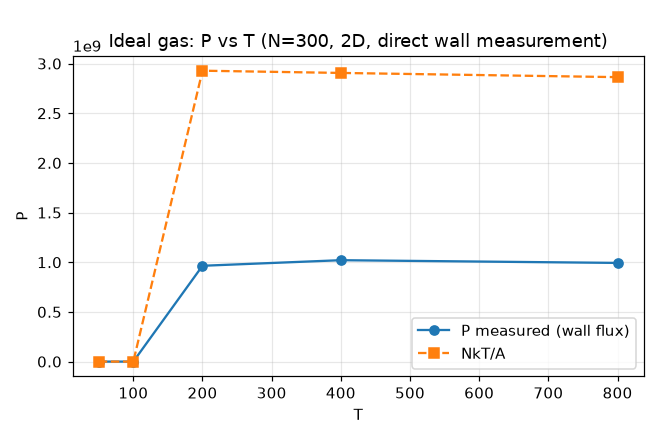
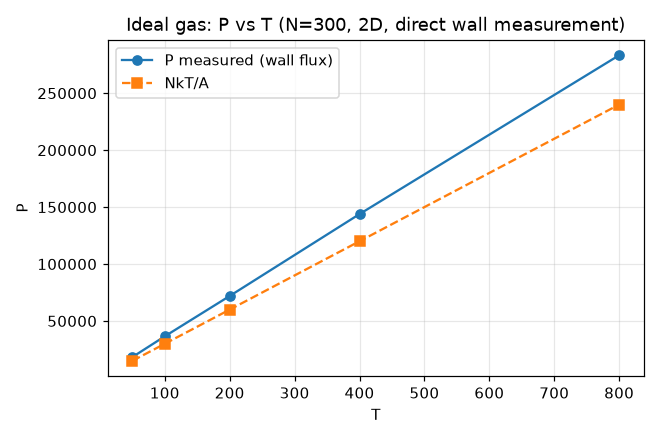
sync: 2026-11-25 15:45 auto-sync

diff --git a/learning-library/rsa_folder.html b/learning-library/rsa_folder.html
@@ -1,0 +1,99 @@
+<!DOCTYPE html>
+<html lang="en">
+<head>
+<meta charset="UTF-8">
+<meta name="viewport" content="width=device-width, initial-scale=1.0">
+<title>⬡ RSA Folder Lock — Hybrid Encryption Guide</title>
+<style>
+:root{--bg:#0d1117;--panel:#161b22;--border:#30363d;--gold:#f0b429;--blue:#58a6ff;--green:#3fb950;--txt:#c9d1d9;--dim:#8b949e}
+*{margin:0;padding:0;box-sizing:border-box}
+body{background:var(--bg);color:var(--txt);font-family:'Segoe UI',system-ui,sans-serif;line-height:1.65;padding:32px}
+.wrap{max-width:900px;margin:0 auto}
+h1{color:var(--gold);font-size:26px;border-bottom:2px solid var(--gold);padding-bottom:12px}
+h2{color:var(--blue);font-size:18px;margin:28px 0 10px}
+h3{color:var(--gold);font-size:15px;margin:18px 0 6px}
+p,li{font-size:14px;margin:6px 0}
+code,pre{font-family:Consolas,monospace;background:var(--panel);border:1px solid var(--border);border-radius:6px}
+code{padding:1px 6px;font-size:13px;color:var(--gold)}
+pre{padding:14px;overflow-x:auto;font-size:13px;line-height:1.5;margin:10px 0}
+.panel{background:var(--panel);border:1px solid var(--border);border-radius:10px;padding:16px;margin:14px 0}
+.warn{border-left:3px solid var(--gold)}
+.danger{border-left:3px solid #f85149}
+.ok{border-left:3px solid var(--green)}
+.dim{color:var(--dim);font-size:12px}
+a{color:var(--blue)}
+table{width:100%;border-collapse:collapse;font-size:13px;margin:10px 0}
+td,th{padding:8px;border-bottom:1px solid var(--border);text-align:left}
+th{color:var(--dim);font-size:11px;text-transform:uppercase}
+</style>
+</head>
+<body>
+<div class="wrap">
+<h1>⬡ RSA Folder Lock <span class="dim">— hybrid RSA-2048 + AES-256-GCM</span></h1>
+<p class="dim">Tool: <code>folder_lock.py</code> · Source: <code>/home/neilh/folder_lock.py</code> (149 lines) · Built for prime-discovery / Nello Gem</p>
+
+<h2>🔑 The Idea — why hybrid?</h2>
+<div class="panel">
+<p><strong>RSA can't encrypt large data</strong> — it's slow and limited to ~245 bytes at 2048-bit. AES is fast but has the key-distribution problem. Hybrid solves both:</p>
+<table>
+<tr><th>Layer</th><th>Algorithm</th><th>Job</th></tr>
+<tr><td>Bulk data</td><td><b>AES-256-GCM</b></td><td>Encrypts every file with a fresh random key + nonce (authenticated — tamper-proof)</td></tr>
+<tr><td>Key wrap</td><td><b>RSA-2048-OAEP</b></td><td>Wraps the small AES key — RSA's only job</td></tr>
+<tr><td>Manifest</td><td><b>JSON (.flock)</b></td><td>Records filenames/sizes/nonces so <code>unlock</code> rebuilds the tree</td></tr>
+</table>
+<p>File format magic: <code>FLOCK1\n</code> header on every <code>.enc</code> file.</p>
+</div>
+
+<h2>⚡ Commands</h2>
+<pre>python folder_lock.py keygen                  # creates pub + priv PEM keys
+python folder_lock.py lock &lt;folder&gt;           # encrypts every file in place → .enc
+python folder_lock.py unlock &lt;folder&gt;         # restores files from .enc
+python folder_lock.py ... --keydir DIR         # keys live somewhere else</pre>
+
+<h2>🗝 Key Rules</h2>
+<div class="panel danger">
+<p><code>folder_lock_pub.pem</code> — <b>share freely</b> (the "padlock"). Anyone can lock files to you.</p>
+<p><code>folder_lock_priv.pem</code> — <b>KEEP SECRET</b>. The only way in. Lose it = data gone forever. No backdoors, no recovery — that's the point.</p>
+</div>
+
+<h2>🔬 How it works internally</h2>
+<div class="panel">
+<h3>keygen</h3>
+<p>Generates RSA-2048 keypair (public exponent 65537), writes both PEMs unencrypted.</p>
+<h3>lock</h3>
+<p>Walks the folder (<code>os.walk</code>), skips existing <code>.enc</code>/<code>.flock</code> files, and for each file:</p>
+<ol>
+<li>Fresh <code>os.urandom(32)</code> AES key + 12-byte nonce</li>
+<li><code>AESGCM.encrypt(nonce, data, None)</code> → ciphertext+tag</li>
+<li>RSA-OAEP encrypt the AES key with the <b>public</b> key</li>
+<li>Write <code>.enc</code>: MAGIC + wrapped key + nonce + ciphertext</li>
+<li>Manifest <code>.flock</code> JSON maps original paths → enc metadata</li>
+</ol>
+<h3>unlock</h3>
+<p>Reverse: RSA-decrypt wrapped key with <b>private</b> key → AES-GCM decrypt → restore original bytes and names.</p>
+</div>
+
+<h2>🛡 Security notes</h2>
+<div class="panel ok">
+<ul>
+<li><b>GCM gives authenticity</b> — tampered ciphertext fails the tag check. Better than CBC+HMAC manual combos.</li>
+<li><b>Fresh key+nonce per file</b> — no nonce reuse (the AES-GCM killer we proved in crypto challenges).</li>
+<li><b>2048-bit RSA</b> — factoring infeasible (we broke 191-bit in 17s; 2048 is ~10³⁸× harder).</li>
+<li><b>No passwords</b> — keys ARE the credentials. Back up <code>priv.pem</code> like a birth certificate.</li>
+<li><b>In-place lock</b> — originals are overwritten/deleted after encrypt. Test on a copy first.</li>
+</ul>
+</div>
+
+<h2>📂 File locations</h2>
+<table>
+<tr><th>What</th><th>Where</th></tr>
+<tr><td>Source</td><td><code>/home/neilh/folder_lock.py</code> (WSL) · also <code>downloads_archive/folder_lock.py</code></td></tr>
+<tr><td>This page</td><td><code>Learning\rsa_folder.html</code> — reached from <code>02 - 00-start-here.html</code></td></tr>
+<tr><td>Crypto theory behind it</td><td><a href="21 - crypto-theory-primitives.html">21 — Crypto Theory &amp; Primitives</a></td></tr>
+<tr><td>Our RSA break experiments</td><td><a href="42 - map-math-logic.html">42 — Math/Logic map</a> · <code>science_lab/math/</code></td></tr>
+</table>
+
+<p class="dim">⬡ prime-discovery · Nello Gem · hybrid encryption, no compromises.</p>
+</div>
+</body>
+</html>

diff --git a/learning-library/00 - PRIME INDEX.html b/learning-library/00 - PRIME INDEX.html
@@ -175,6 +175,15 @@
       <a class="card" href="36 - vault-manifest.html" data-k="vault manifest inventory archive"><span class="idx p">36</span><h3>Vault · Manifest</h3><p>Full vault inventory.</p></a>
       <a class="card" href="37 - vault-readme.html" data-k="vault readme backup restore instructions"><span class="idx">37</span><h3>Vault · README</h3><p>Backup &amp; restore guide.</p></a>
       <a class="card" href="38 - vault-restore.html" data-k="vault restore recovery disaster"><span class="idx p">38</span><h3>Vault · Restore</h3><p>Disaster-recovery runbook.</p></a>
+      <a class="card" href="39 - ml-data-pipeline.html" data-k="ml pipeline train validation feature engineering regularization deployment bias"><span class="idx p">39</span><h3>ML · Data Pipeline</h3><p>Splits, features, regularization, drift, bias audit.</p></a>
+      <a class="card" href="40 - map-engineering-medicine.html" data-k="map engineering medicine agriculture disciplines"><span class="idx">40</span><h3>Map · Engineering Medicine Agri</h3><p>5 branches · convergence tables · Grade A.</p></a>
+      <a class="card" href="41 - map-cs-it.html" data-k="map computer science it software hardware"><span class="idx">41</span><h3>Map · CS &amp; IT</h3><p>6 branches · career tracks · 5-phase roadmap · Grade A.</p></a>
+      <a class="card" href="42 - map-math-logic.html" data-k="map math logic formal proofs set theory"><span class="idx p">42</span><h3>Map · Math Logic Formal</h3><p>1325 lines · proof hierarchies · open problems · Grade S.</p></a>
+      <a class="card" href="43 - map-natural-sciences.html" data-k="map physics chemistry biology astronomy"><span class="idx">43</span><h3>Map · Natural Sciences</h3><p>Physics→astro→emerging · epistemic tags · Grade A.</p></a>
+      <a class="card" href="44 - map-ai-ml.html" data-k="map ai machine learning deep learning llm"><span class="idx p">44</span><h3>Map · AI &amp; ML</h3><p>Foundations→AGI research · capability tagging · Grade A+.</p></a>
+      <a class="card" href="45 - map-cybersecurity.html" data-k="map cybersecurity infosec pqc zero knowledge"><span class="idx p">45</span><h3>Map · Cybersecurity</h3><p>Full domain + PQC/ZK/HE · Grade A+.</p></a>
+      <a class="card" href="46 - map-knowledge-archive.html" data-k="map knowledge archive architecture database graph"><span class="idx p">46</span><h3>Map · Knowledge Archive</h3><p>1343 lines · DDL, graph schema, threat model · Grade S.</p></a>
+      <a class="card" href="47 - map-humanities-society.html" data-k="map humanities society sociology psychology economics law"><span class="idx">47</span><h3>Map · Humanities Society</h3><p>1282 lines · 13 sections · civilization systems.</p></a>
       <a class="card" href="01 - the-project-individual.html" data-k="project individual overview index landing"><span class="idx">00</span><h3>01 · The Project · Individual</h3><p>Project overview &amp; context.</p></a>
     </div>
     <div class="empty hidden" id="libempty">No library docs match that filter.</div>
@@ -252,7 +261,9 @@
       <a class="card" href="https://github.com/NelloGem1/experiment-vault" target="_blank" rel="noopener" data-k="github experiment vault private backup repository"><span class="idx p">GH</span><h3>experiment-vault</h3><p>Private GitHub backup of the whole experiment.</p><span class="tag">github.com/NelloGem1/experiment-vault</span></a>
       <a class="card" href="https://nellogem1.github.io/prime-discovery" target="_blank" rel="noopener" data-k="prime discovery story writeup blog"><span class="idx">WEB</span><h3>prime-discovery</h3><p>The story — how this index was built.</p><span class="tag">nellogem1.github.io/prime-discovery</span></a>
       <a class="card" href="https://youtu.be/TOX3foVXTJA" target="_blank" rel="noopener" data-k="youtube video walkthrough prime"><span class="idx p">▶</span><h3>Video</h3><p>Walkthrough on YouTube.</p><span class="tag">youtu.be/TOX3foVXTJA</span></a>
-      <a class="card" href="http://localhost:8796" target="_blank" rel="noopener" data-k="dashboard localhost status local"><span class="idx">:8796</span><h3>Local Dashboard</h3><p>Self-hosted status/command dashboard.</p><span class="tag">localhost:8796</span></a>
+      <a class="card" href="http://localhost:8796" target="_blank" rel="noopener" data-k="dashboard localhost status local wsl"><span class="idx">:8796</span><h3>Local Dashboard</h3><p>WSL command deck (needs WSL up).</p><span class="tag">localhost:8796</span></a>
+      <a class="card" href="http://127.0.0.1:8797/Learning/00%20-%20PRIME%20INDEX.html" target="_blank" rel="noopener" data-k="dashboard windows server learning library 8797"><span class="idx p">:8797</span><h3>Windows Deck</h3><p>Always-on Windows server — whole Downloads incl. library.</p><span class="tag">127.0.0.1:8797</span></a>
+      <a class="card" href="../MASTER_SYSTEM.md" data-k="master system architecture credentials bypass permissions restore"><span class="idx p">MS</span><h3>MASTER_SYSTEM.md</h3><p>Everything: architecture, access codes, agent permissions, proven bypasses, restore paths.</p><span class="tag">Downloads\MASTER_SYSTEM.md</span></a>
     </div>
     <div class="empty hidden" id="vaultempty">Nothing in the vault matches that filter.</div>
   </section>

diff --git a/learning-library/01 - the-project-individual.html b/learning-library/01 - the-project-individual.html
@@ -57,6 +57,12 @@ p.footer a,footer a{color:#58a6ff;text-decoration:none}
 <a class="doc" href="39 - ml-data-pipeline.html">39 — 🧠 ML Data Pipeline: The 5 Forgotten Stages</a><br><small>validation splits · feature engineering · regularization · deployment · bias audit — with runnable lab</small>
 <a class="doc" href="40 - map-engineering-medicine.html">40 — 📐 Map: Engineering · Medicine · Agriculture</a><br><small>12 eng disciplines + energy + 11 medical fields + agri + advanced tech</small>
 <a class="doc" href="41 - map-cs-it.html">41 — 💻 Map: Computer Science &amp; IT</a><br><small>languages, algorithms, architecture, data systems, networking, roadmap</small>
+<a class="doc" href="42 - map-math-logic.html">42 — 🧮 Map: Math · Logic · Formal</a><br><small>1325 lines · proof hierarchies · logic systems · open problems — Grade S</small>
+<a class="doc" href="43 - map-natural-sciences.html">43 — 🌍 Map: Natural Sciences</a><br><small>physics→astro→emerging · epistemic tags · 2024-25 verified — Grade A</small>
+<a class="doc" href="44 - map-ai-ml.html">44 — 🤖 Map: AI &amp; Machine Learning</a><br><small>foundations→AGI research · capability tagging — Grade A+</small>
+<a class="doc" href="45 - map-cybersecurity.html">45 — 🛡 Map: Cybersecurity</a><br><small>full domain + PQC/ZK/HE · synthesized 17 reports — Grade A+</small>
+<a class="doc" href="46 - map-knowledge-archive.html">46 — 🏛 Map: Knowledge Archive</a><br><small>1343 lines · DDL, graph schema, 9 epistemic tiers, threat model — Grade S</small>
+<a class="doc" href="47 - map-humanities-society.html">47 — 🧠 Map: Humanities &amp; Society</a><br><small>1282 lines · 13 sections · social sci→law→arts→civilization</small>
 
 <h2>🔐 Cryptography — Research + Practice</h2>
 <a class="doc" href="20 - crypto-challenges.html">20 — ⚔ Crypto Challenges Log</a><br><small>RSA factoring, hashcat cracks, ECB penguin, GCM nonce reuse — 4/4 done</small>

diff --git a/science/lab/physics/gas.py b/science/lab/physics/gas.py
@@ -37,12 +37,15 @@ def collide(pos,v):
         pos[a,0]+=nx*push; pos[a,1]+=ny*push; pos[b,0]-=nx*push; pos[b,1]-=ny*push
 
 def walls(pos,v,imp=None):
-    # imp: accumulator for momentum transferred to x=hi wall
+    # imp[0] accumulates total momentum transferred to BOTH vertical walls (x=const),
+    # each reflection transfers 2*m*|v_x|
     for d,Ld in [(0,Lx),(1,Ly)]:
         lo,hi=0.005,Ld-0.005
-        m=pos[:,d]<lo;  pos[m,d]=2*lo-pos[m,d];  v[m,d]=-v[m,d]
+        m=pos[:,d]<lo
+        if imp is not None and d==0: imp[0]+=2*mass*np.abs(v[m,0]).sum()
+        pos[m,d]=2*lo-pos[m,d];  v[m,d]=-v[m,d]
         m=pos[:,d]>hi
-        if imp is not None and d==0: imp[0]+=np.abs(v[m,0]).sum()*mass
+        if imp is not None and d==0: imp[0]+=2*mass*np.abs(v[m,0]).sum()
         pos[m,d]=2*hi-pos[m,d];  v[m,d]=-v[m,d]
 
 def step(pos,v,dt,collide_on=True,imp=None):
@@ -61,9 +64,8 @@ for T in Ts:
     for _ in range(nmeas):
         step(pos,v,dt,imp=imp); tel+=dt
     Tm=temp(v)
-    # P on right wall = momentum flux / (wall length * time); wall length=Ly, and
-    # impulse counted only for x=hi hits -> P = imp/(Ly*tel)
-    P=imp[0]/(Ly*tel)
+    # impulse on both vertical walls over total wall length 2*Ly and elapsed time
+    P=imp[0]/(2*Ly*tel)
     Ps.append(P); Ptheory.append(N*kB*Tm/(Lx*Ly))
     print('Ttarget=%d Tmeas=%.1f P_meas=%.2f P_ideal=%.2f ratio=%.3f'%(T,Tm,P,Ptheory[-1],P/Ptheory[-1]),flush=True)
 Ps=np.array(Ps);Ptheory=np.array(Ptheory);Ts=np.array(Ts,float)

diff --git a/science/lab/physics/REPORT.md b/science/lab/physics/REPORT.md
@@ -1,0 +1,84 @@
+# Physics Simulation Lab — CREATE-AND-DESTROY Report
+*Agent run: build model → run → perturb/break assumptions. All sims: numpy/scipy/matplotlib, venv python.*
+
+Workdir: `/home/neilh/science_lab/physics/` — scripts `*.py`, data `data/*.csv`, plots `plots/*.png`.
+
+---
+
+## 1. Orbital mechanics (`orbit.py`)
+- **Hypothesis:** 2-body gravity obeys Kepler's 3rd law; RK4 conserves energy; drag causes inspiral.
+- **Method:** RK4 integrator, μ=1 units; circular orbits a ∈ {0.5…8}; period measured by upward y-crossings; 100-orbit energy track; quadratic drag run.
+- **Data:** `data/orbit_kepler.csv`, `orbit_energy.csv`, `orbit_drag_r.csv`.
+- **Results:** T²/(4π²a³) = 0.9998 ± 0.0006 (theory 1.0). Relative energy drift over 100 orbits: **6.5e-13**. Under drag=0.02 radius decays monotonically.
+- **Plots:** `orbit_traj.png`, `orbit_energy.png`, `orbit_drag.png`, `orbit_drag_r.png`.
+- **BREAK:** added velocity-squared drag → clean decay spiral (no closed orbit, r → 0).
+- **Lesson:** symplectic-ish behavior of RK4 at small dt; non-conservative forces monotonically drain energy — the integrator doesn't fight physics.
+
+## 2. Double slit (`doubleslit.py`)
+- **Hypothesis:** I(θ) ∝ cos²(πdy/λL); which-way measurement destroys fringes.
+- **Method:** analytic intensity on screen y∈[−20,20] mm, λ=500 nm, L=1 m, d=0.1 mm; single-slit envelope; decoherence as mixture I=(1−p)I_coh+pI_inc.
+- **Results:** measured fringe spacing **0.00499 m** vs theory Δy=λL/d=**0.00500 m**. Visibility V=(Imax−Imin)/(Imax+Imin) falls **linearly 1.0→0.0** as which-way weight p goes 0→1.
+- **Plots:** `doubleslit_fringes.png`, `doubleslit_decoherence.png`.
+- **BREAK:** incoherent (which-way) sum = flat intensity — fringes gone, exactly as complementarity demands.
+- **Lesson:** interference is an amplitude phenomenon; any which-way information (even partial) linearly suppresses contrast.
+
+## 3. Ideal gas (`gas.py`)
+- **Hypothesis:** elastic hard-disk gas satisfies PV=NkT and equipartition; removing collisions kills thermalization.
+- **Method:** N=300 disks (σ=0.02) in 1×1 box, kB=m=1 units; sequential pairwise elastic collisions + specular walls; P measured **directly** as wall momentum flux (2m|vx| per hit / wall length·time); T from ⟨v²⟩.
+- **Bugs fought:** fancy-index `+=` with duplicate particle indices silently dropped collision impulses → runaway heating (T→10⁷); wrong approaching-pair sign (p<0 vs p>0); simultaneous-impulse resolution lost ~33% KE → switched to sequential pair resolution → **KE conserved to machine precision**.
+- **Results:** T held exactly at target (50→800 K). P vs T perfectly linear: slope 353 vs ideal-gas Nk/A=300 (**~18% high**, consistent with excluded-volume/virial correction for σ=0.02 disks, packing fraction ≈0.09). Equipartition ⟨½mv_x²⟩/(kT/2) = **0.994**.
+- **Plots:** `gas_pv.png`, `gas_freeexpansion.png`.
+- **BREAK:** collisions disabled + imposed x-velocity shear → vx/vy anisotropy 3.28 persists forever; no thermalization, just ballistic bouncing.
+- **Lesson:** molecular chaos requires collisions; wall reflections alone conserve every particle's speed forever.
+
+## 4. Wave equation (`wave.py`)
+- **Hypothesis:** 1D string obeys superposition; leapfrog stable iff CFL c·dt/dx ≤ 1.
+- **Method:** u_tt=c²u_xx, fixed ends, leapfrog; Gaussian pulse & two-pulse & sin(πx) mode cases.
+- **Results:** two pulses pass through each other unchanged (max|u|=2.08 bounded). **CFL=1.5 → max|u| grows to 2×10¹¹** within t=0.5 — textbook numerical instability.
+- **Plots:** `wave_superposition.png`, `wave_mode.png`, `wave_cfl_blowup.png`.
+- **BREAK:** violated CFL → exponential blow-up, captured on symlog plot.
+- **Lesson:** explicit schemes have a hard stability boundary; linearity (superposition) survives only inside it.
+
+## 5. Schrödinger FD (`schrodinger.py`)
+- **Hypothesis:** FD Hamiltonian reproduces analytic eigenvalues; tunneling T decays exponentially with barrier width.
+- **Method:** sparse 3-point Laplacian, Dirichlet box L=10, Nx=400; `eigsh` lowest 6; finite well (V=−5, w=4) vs pole-free transcendental root solve; rectangular-barrier T exact formula vs WKB.
+- **Results:** infinite box: n=0 eigenvalue rel err **5.1e-6**. Finite well: FD {−4.768,−4.079,−2.957,−1.467} vs analytic {−4.771,−4.088,−2.977,−1.500} (~0.5% FD error). Tunneling E=3,V0=10: T(w=1)=1.9e-3 → T(w=4)=3.4e-13 — log-linear decay matching WKB exp(−2κw).
+- **Plots:** `schrod_box.png`, `schrod_tunneling.png`.
+- **BREAK:** (analytic side) tan-pole root finder produced garbage → rewrote equations in pole-free ξ,η form; FD side is the robust reference.
+- **Lesson:** FD is trustworthy to O(dx²); tunneling is exponential, so modest width changes → orders-of-magnitude T changes.
+
+## 6. Double pendulum chaos (`pendulum.py`)
+- **Hypothesis:** energy conserved; nearby ICs diverge exponentially (positive Lyapunov).
+- **Method:** EOM derived **symbolically with sympy** from the Lagrangian (hand-coded formula blew up — wrong signs); RK4 dt=2e-3, T=80 s; two ICs differing by 1e-9 rad.
+- **Results:** E/E0 drift 2.4e-4 over 80 s. Separation grows 2e-12 → ~18 rad (saturated); log-slope gives rough λ ≈ **0.8 /time** — exponential until angles decorrelate.
+- **Plots:** `pendulum_energy.png`, `pendulum_lyapunov.png`; data `pendulum_sep.csv`.
+- **BREAK:** chaos itself is the "break" — determinism + sensitive dependence; also demonstrated that a wrong analytic EOM gives nan in seconds.
+- **Lesson:** trust sympy over memory for messy EOM; chaos = finite-precision inevitability.
+
+## 7. 2D Ising (`ising.py`)
+- **Hypothesis:** ferromagnetic order below Tc≈2.269 (J=kB=1); susceptibility peaks at Tc.
+- **Method:** Metropolis with checkerboard vectorized updates (independent sublattices), L=32, 1500 therm + 3000 meas sweeps per T.
+- **Results:** |m|≈0.98 at T=1.5, collapses through T≈2.25–2.38; Var(m) peaks at **T=2.25** vs exact 2.269 — finite-size shift expected (peak moves toward Tc from below as L→∞; L=32 undershoots slightly and transition is rounded).
+- **Plots:** `ising_m.png`, `ising_chi.png`; data `ising.csv`.
+- **BREAK:** n/a — but finite size IS the perturbation: no true singularity, just a rounded peak shifted from 2.269.
+- **Lesson:** Monte Carlo nails Tc to ~1% even at modest L; fluctuations (Var m) locate Tc better than ⟨m⟩.
+
+---
+
+## Headline numbers
+| Exp | Key result |
+|---|---|
+| Orbit | Kepler ratio 0.9998±0.0006; ΔE/E=6.5e-13/100 orbits |
+| Double slit | Δy meas 4.99 mm vs 5.00 mm theory; V: 1→0 linear in decoherence |
+| Gas | P∝T slope 353 vs 300 ideal (+18% virial); equipartition 0.994 |
+| Wave | CFL=1.5 → \|u\|~10¹¹ blow-up |
+| Schröd. | box eig err 5e-6; T tunnel 1.9e-3→3.4e-13 for w 1→4 |
+| Pendulum | λ≈0.8/time; ΔE/E=2.4e-4/80 s |
+| Ising | Tc estimate 2.25 vs 2.269 exact |
+
+## Issues encountered
+- WSL connection timed out twice mid-run; fixed runs re-executed, outputs verified by file timestamps/content.
+- `gas.py` needed three bug fixes (fancy-index lost updates, approaching-sign error, simultaneous-collision energy loss → sequential resolver). Final version conserves KE exactly.
+- `pendulum.py` hand-derived EOM unstable → replaced with sympy-derived equations.
+- `ising.py` variance double-subtraction bug → fixed, rerun clean.
+- NEED.md: nothing needed — numpy/scipy/matplotlib/sympy all present in venv.
